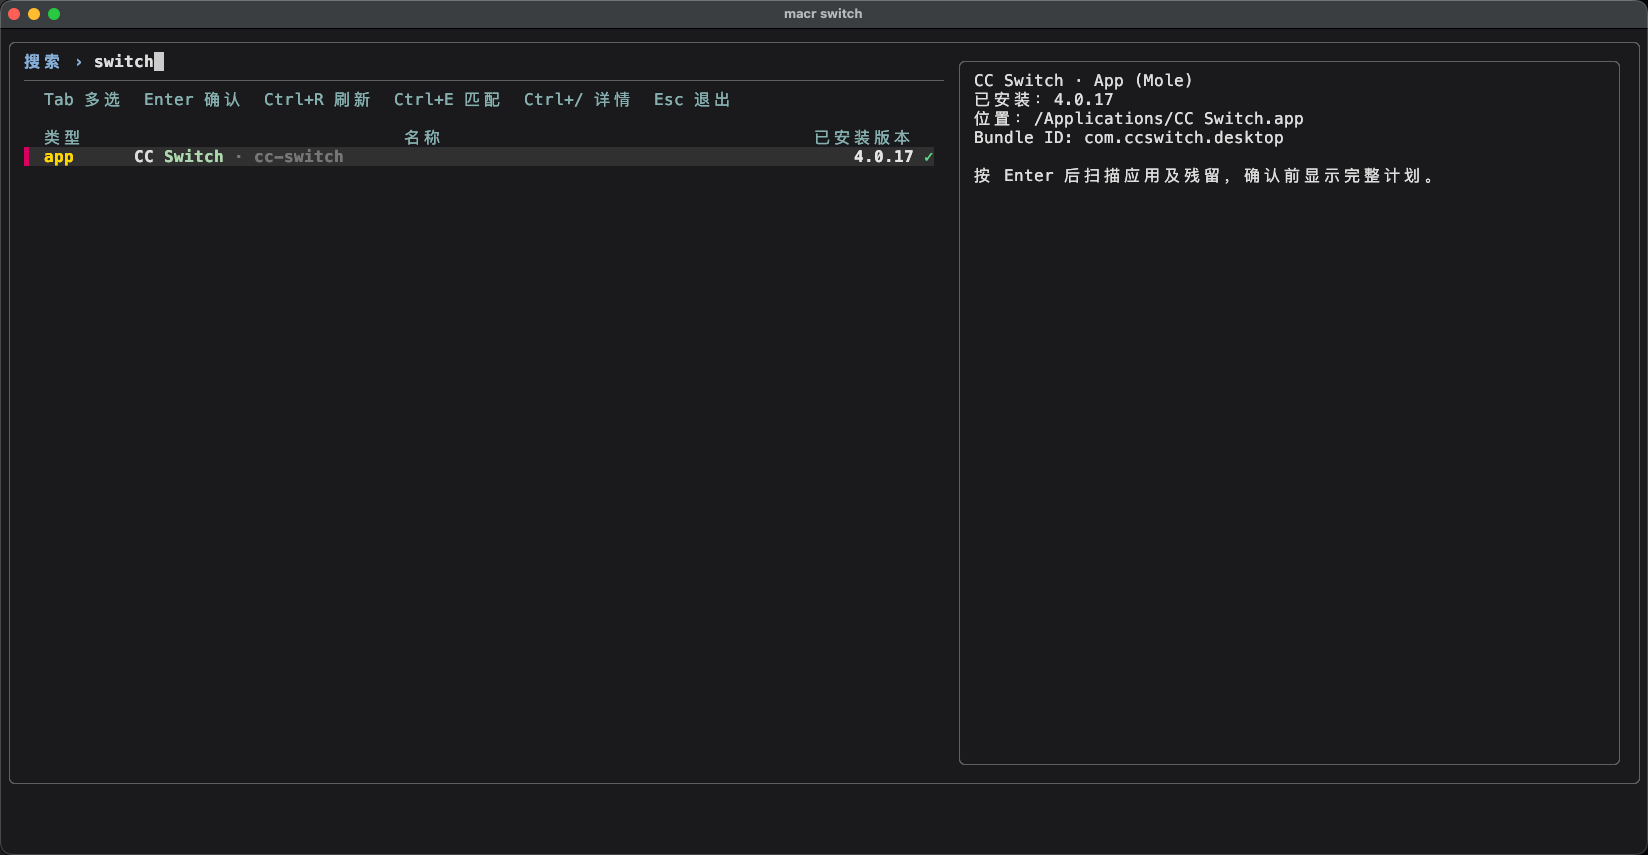
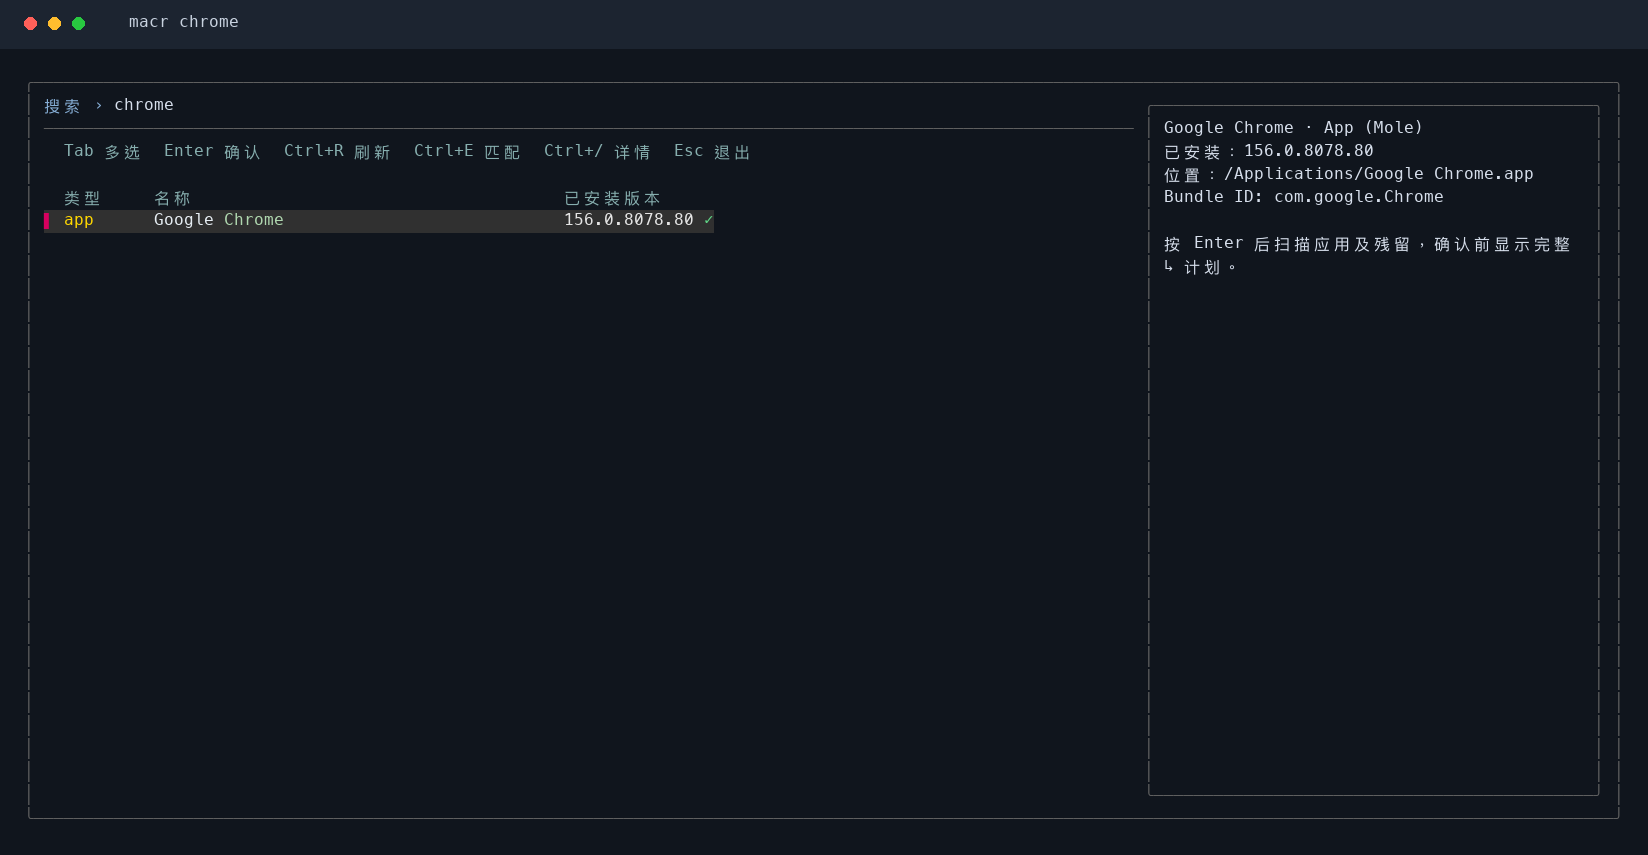
docs: add removal and optimization screenshots to READMEs

Changed region(s): [[0.0, 0.0, 1.0, 0.9427], [0.7118, 0.2737, 0.9593, 0.3345], [0.9903, 0.9731, 1.0, 1.0]]

diff --git a/scripts/capture_demo.py b/scripts/capture_demo.py
@@ -2,8 +2,9 @@
 """Render README terminal demos on macOS (development deps: pillow, pyte).
 
 Use --capture to open each current selector in a private pseudo-terminal and
-exit without accepting a selection. --only help install top refreshes README's
-three screenshots. No installations, removals, or cleanup actions are executed.
+exit without accepting a selection. --only help install remove optimize top
+refreshes README's five screenshots. No installations, removals, or cleanup
+actions are executed.
 Without --capture, render existing .reference/*.typescript recordings.
 """
 
@@ -21,7 +22,7 @@ OUTPUT = ROOT / 'docs' / 'images'
 COLS, ROWS = 160, 35
 DEMOS = (
     ('install', 'install-status.png', ['maci', '--dry-run', '--formula', '--exact', 'fish'], 'maci fish'),
-    ('remove', 'remove-color.png', ['macr', '--dry-run', '--exact', 'switch'], 'macr switch'),
+    ('remove', 'remove-color.png', ['macr', '--dry-run', '--exact', 'chrome'], 'macr chrome'),
     ('clean', 'clean-color.png', ['macc', '--dry-run'], 'ma clean'),
     ('optimize', 'optimize-color.png', ['maco'], 'ma optimize'),
     ('ai', 'ai-color.png', ['maca', 'install', '--dry-run'], 'ma ai'),

diff --git a/README.en.md b/README.en.md
@@ -40,6 +40,14 @@ mato                         # Monitor resources and manage processes
 
 ![maci searching for fish with installed versions and package details](docs/images/install-status.png)
 
+**App removal and leftover cleanup**
+
+![macr searching for Google Chrome with native app and removal details](docs/images/remove-color.png)
+
+**System optimization**
+
+![maco optimization selector showing available tasks, scope, and required permissions](docs/images/optimize-color.png)
+
 **Live resource and process monitoring**
 
 ![mato showing CPU, GPU, memory, disk, network, and processes sorted by memory](docs/images/top-color.png)

diff --git a/docs/USAGE.en.md b/docs/USAGE.en.md
@@ -105,7 +105,7 @@ Search and select packages: white names, right-aligned versions, and green `✓`
 
 **App removal with `macr`**: native apps appear first with yellow `app` labels. Press Enter to scan leftovers, then choose whether to clean them before confirming removal.
 
-![macr searching for CC Switch with one native row for the cask-managed app](images/remove-color.png)
+![macr searching for Google Chrome with native app and removal details](images/remove-color.png)
 
 **Disk cleanup with `macc`**: select Homebrew caches, unused dependencies, build output, and application caches; inspect the scope on the right.
 

diff --git a/README.md b/README.md
@@ -40,6 +40,14 @@ mato                         # 实时监控与进程管理
 
 ![maci 搜索 fish，显示已安装版本和软件详情](docs/images/install-status.png)
 
+**应用卸载与残留清理**
+
+![macr 搜索 Google Chrome，展示本机应用及卸载详情](docs/images/remove-color.png)
+
+**系统优化**
+
+![maco 系统优化界面，展示可选任务、影响范围与所需权限](docs/images/optimize-color.png)
+
 **实时资源监控与进程管理**
 
 ![mato 显示 CPU、GPU、内存、磁盘、网络与按内存排序的进程列表](docs/images/top-color.png)

diff --git a/docs/USAGE.md b/docs/USAGE.md
@@ -105,7 +105,7 @@ curl -fsSL https://raw.githubusercontent.com/tingfeng347/mactools/main/uninstall
 
 **应用卸载 `macr`**：本机应用使用黄色 `app` 标识并置顶；按 Enter 后扫描残留，再选择是否清理并确认卸载。
 
-![macr 搜索 CC Switch，cask 管理的应用只保留一条本机应用记录](images/remove-color.png)
+![macr 搜索 Google Chrome，展示本机应用及卸载详情](images/remove-color.png)
 
 **空间清理 `macc`**：选择 Homebrew 缓存、无用依赖、构建产物与应用缓存，右侧查看影响范围。
 
